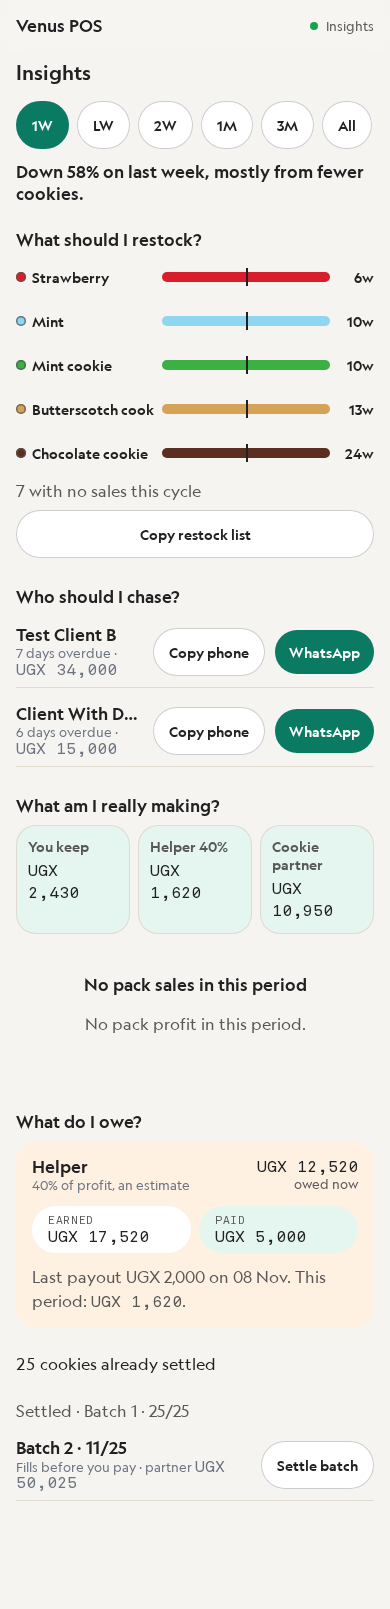
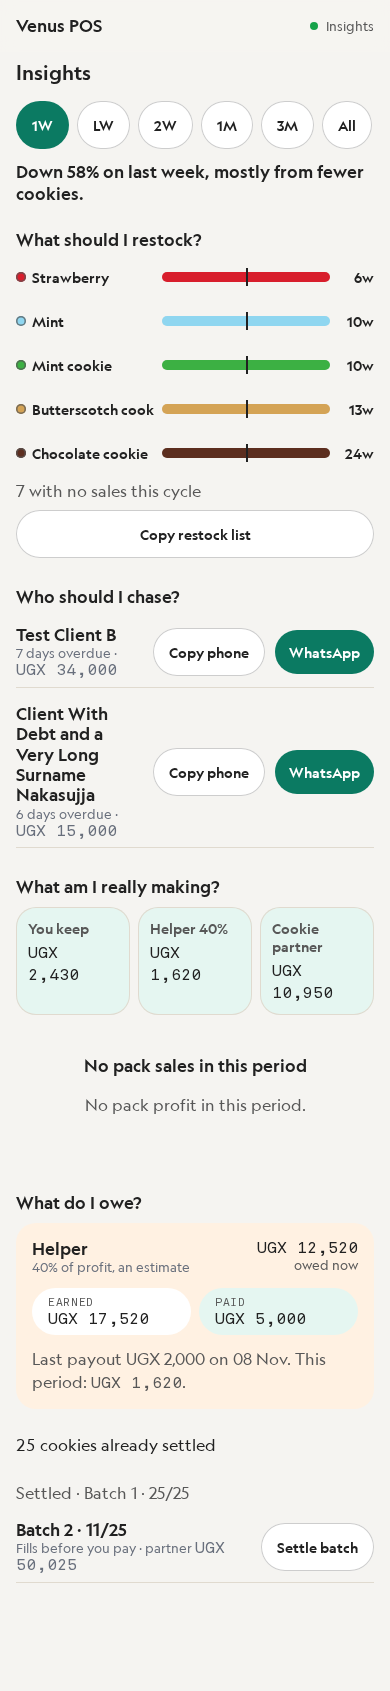
wip: --ink-500 to #686f7c for AA on tints; axe measures settled page; tests and shots

diff --git a/tests/e2e/owner-decisions.spec.ts b/tests/e2e/owner-decisions.spec.ts
@@ -48,6 +48,7 @@ test.describe('owner decisions', () => {
     await page.getByTestId('history-sale-seed-sale-1').click();
     await page.getByTestId('sale-edit').click();
     await page.getByTestId('sale-edit-flavours-0').click();
+    await page.getByTestId('config-flavor-mint-dec').click();
     await page.getByTestId('config-flavor-strawberry-inc').click();
     await page.getByTestId('sale-edit-flavours-back').click();
     await expect(page.getByRole('dialog', { name: 'Edit sale' })).toBeVisible();
@@ -213,5 +214,83 @@ test.describe('owner decisions', () => {
     }
     await sheet.getByTestId('copy-phone').click();
     expect(await page.evaluate(() => navigator.clipboard.readText())).toBe('700111222');
+  });
+
+  test('the edit-sale picker holds a pack to its joint count', async ({ page }) => {
+    await createNextDriver(page, { role: 'pos_admin' });
+    await page.goto('/next/history');
+    await page.getByTestId('history-sale-seed-sale-1').click();
+    await page.getByTestId('sale-edit').click();
+    await page.getByTestId('sale-edit-flavours-0').click();
+    const picker = page.getByRole('dialog', { name: /Flavours/ });
+    const apply = picker.getByTestId('sale-edit-flavours-apply');
+    // Scout is 1 joint and the sale has 1 Mint: the pack is full.
+    await expect(picker.getByTestId('slot-meter')).toHaveAttribute('data-picked', '1');
+    await expect(picker.getByTestId('slot-meter')).toContainText('1 of 1');
+    await expect(apply).toBeEnabled();
+    await expect(picker.getByTestId('config-flavor-strawberry-inc')).toBeDisabled();
+    await expect(picker.getByTestId('config-flavor-mint-inc')).toBeDisabled();
+    // Empty it: the exact count is required.
+    await picker.getByTestId('config-flavor-mint-dec').click();
+    await expect(apply).toBeDisabled();
+    await expect(apply).toContainText('Pick 1');
+    await expect(picker.getByTestId('config-flavor-strawberry-inc')).toBeEnabled();
+    await picker.getByTestId('config-flavor-strawberry-inc').click();
+    await expect(apply).toBeEnabled();
+    await expect(picker.getByTestId('config-flavor-grape-inc')).toBeDisabled();
+  });
+
+  for (const [id, target, total] of [
+    ['scout', 1, 1],
+    ['pilot', 2, 2],
+    ['commander', 5, 5],
+    ['variety', 7, 8],
+    ['cookie_duet', 2, 2],
+    ['cookie_trio', 3, 3],
+  ] as const) {
+    test(`Sell's ${id} picker stops at ${target} flavours and needs exactly ${target}`, async ({ page }) => {
+      await createNextDriver(page, { role: 'pos_admin' });
+      await page.goto('/next/sell');
+      await page.getByTestId(`product-${id}`).click();
+      const dialog = page.getByRole('dialog').last();
+      const add = dialog.getByTestId('config-add');
+      const incs = dialog.locator('[data-testid^="config-flavor-"][data-testid$="-inc"]');
+      await expect(add).toBeDisabled();
+      for (let i = 0; i < target; i += 1) {
+        await expect(add).toBeDisabled();
+        await incs.first().click();
+      }
+      // Always the first flavour, so one row carries the whole count.
+      await expect(dialog.getByTestId('slot-meter')).toHaveAttribute('data-picked', String(target));
+      await expect(dialog.getByTestId('slot-meter')).toContainText(`${total} of ${total}`);
+      await expect(add).toBeEnabled();
+      const count = await incs.count();
+      for (let i = 0; i < count; i += 1) await expect(incs.nth(i)).toBeDisabled();
+      if (target > 1) {
+        await dialog.locator('[data-testid$="-dec"]').first().click();
+        await expect(add).toBeDisabled();
+      }
+    });
+  }
+
+  test('credit chase names wrap instead of truncating', async ({ page }) => {
+    const driver = await createNextDriver(page, { role: 'pos_admin' });
+    await page.setViewportSize({ width: 360, height: 780 });
+    const name = 'Client With Debt and a Very Long Surname Nakasujja';
+    driver.mock.db.table('clients').find((r) => r.name === 'Client With Debt')!.name = name;
+    await page.goto('/next/insights');
+    const title = page.locator('[data-testid="insights-credit"] .v-list-row__title', { hasText: 'Nakasujja' });
+    await expect(title).toBeVisible();
+    const box = await title.evaluate((el) => {
+      const style = getComputedStyle(el);
+      return {
+        clipped: el.scrollWidth > el.clientWidth + 1,
+        whiteSpace: style.whiteSpace,
+        lines: Math.round(el.getBoundingClientRect().height / parseFloat(style.lineHeight)),
+      };
+    });
+    expect(box.whiteSpace).toBe('normal');
+    expect(box.clipped).toBe(false);
+    expect(box.lines).toBeGreaterThan(1);
   });
 });

diff --git a/tests/e2e/design-shots.spec.ts b/tests/e2e/design-shots.spec.ts
@@ -16,6 +16,9 @@ test('capture 390px screens', async ({ page, browser, baseURL }) => {
   const seedSale = driver.mock.db.table('sales').find((r) => r.id === 'seed-sale-1')!;
   seedSale.client_phone = '0700333444';
   seedSale.location_label = 'Kololo';
+  // A long client name in the chase list, so the wrap shows there too.
+  driver.mock.db.table('clients').find((r) => r.name === 'Client With Debt')!.name =
+    'Client With Debt and a Very Long Surname Nakasujja';
 
   async function frame() {
     await page.addStyleTag({
@@ -31,6 +34,13 @@ test('capture 390px screens', async ({ page, browser, baseURL }) => {
   }
 
   await shot('sell', '/next/sell', '[data-testid="product-scout"]');
+  // A pack holds to its joint count: Pilot is 2, so one pick leaves the add button waiting.
+  await page.getByTestId('product-pilot').click();
+  await page.getByTestId('config-flavor-mint-inc').click();
+  await page.waitForTimeout(400);
+  await frame();
+  await page.screenshot({ path: `${dir}/sell-picker-pilot.png` });
+  await page.getByRole('dialog').last().getByRole('button', { name: 'Close' }).click();
   await page.getByTestId('product-plain_single').click();
   await page.getByTestId('config-add').click();
   await page.getByRole('dialog', { name: 'Review sale' }).waitFor();
@@ -57,7 +67,9 @@ test('capture 390px screens', async ({ page, browser, baseURL }) => {
   await page.screenshot({ path: `${dir}/edit-sale.png` });
   await page.getByTestId('sale-edit-flavours-0').click();
   await page.getByRole('dialog', { name: /Flavours/ }).waitFor();
+  await page.getByTestId('config-flavor-mint-dec').click();
   await page.getByTestId('config-flavor-strawberry-inc').click();
+  await page.waitForTimeout(400);
   await frame();
   await page.screenshot({ path: `${dir}/edit-sale-flavours.png` });
   await page.keyboard.press('Escape');

diff --git a/tests/e2e/axe.spec.ts b/tests/e2e/axe.spec.ts
@@ -7,6 +7,8 @@ const routes = ['/sell', '/system'];
 test.describe('axe serious and critical', () => {
   for (const route of routes) {
     test(`${route} has no serious or critical violations`, async ({ page }) => {
+      // Axe reads colour mid-fade if a page is still animating in. Measure the settled page.
+      await page.emulateMedia({ reducedMotion: 'reduce' });
       const driver = await createNextDriver(page, { role: 'pos_admin' });
       await driver.run({
         id: 'axe',
@@ -15,6 +17,7 @@ test.describe('axe serious and critical', () => {
         seed: 'default',
         steps: [{ do: 'go', path: route }],
       });
+      await page.waitForTimeout(300);
       const results = await new AxeBuilder({ page }).analyze();
       const bad = results.violations.filter((v) => v.impact === 'serious' || v.impact === 'critical');
       expect(bad, bad.map((v) => `${v.id}: ${v.help}`).join('\n')).toEqual([]);

diff --git a/src/styles/tokens.css b/src/styles/tokens.css
@@ -1,7 +1,7 @@
 :root {
   --ink-900: #212121;
   --ink-700: #575757;
-  --ink-500: #6b7280;
+  --ink-500: #686f7c;
   --ink-300: #d1d5db;
   --paper-0: #ffffff;
   --paper-50: #f5f4f1;
@@ -25,6 +25,8 @@
   --line-strong: var(--stroke-400);
   --mint: #0f8f78;
   --melon: #ef7d1a;
+  /* Orange for large money (24px and up). 3.5:1 on white; --melon itself is 2.76:1. */
+  --melon-text-lg: #d9680c;
   --grape: #6d4ea3;
   --blueberry: #3156c9;
   --watermelon: #e23b4a;

diff --git a/DESIGN.md b/DESIGN.md
@@ -31,7 +31,7 @@ All values below are the implementation. Hex values appear **only** in `src/styl
 |-------|-------|--------------|
 | `--ink-900` | `#212121` | `--color-black` |
 | `--ink-700` | `#575757` | `--color-light-charcoal` |
-| `--ink-500` | `#6b7280` | `--color-gray-500` |
+| `--ink-500` | `#686f7c` | `--color-gray-500`, darkened from `#6b7280` so meta text clears 4.5:1 on `--bg` |
 | `--ink-300` | `#d1d5db` | `--color-gray-300` |
 | `--paper-0` | `#ffffff` | `--color-white` |
 | `--paper-50` | `#f5f4f1` | `--color-natural-white-25` |

diff --git a/docs/overhaul/03-design-system.md b/docs/overhaul/03-design-system.md
@@ -31,7 +31,7 @@ All values below are the implementation. Hex values appear **only** in `src/styl
 |-------|-------|--------------|
 | `--ink-900` | `#212121` | `--color-black` |
 | `--ink-700` | `#575757` | `--color-light-charcoal` |
-| `--ink-500` | `#6b7280` | `--color-gray-500` |
+| `--ink-500` | `#686f7c` | `--color-gray-500`, darkened from `#6b7280` so meta text clears 4.5:1 on `--bg` |
 | `--ink-300` | `#d1d5db` | `--color-gray-300` |
 | `--paper-0` | `#ffffff` | `--color-white` |
 | `--paper-50` | `#f5f4f1` | `--color-natural-white-25` |
